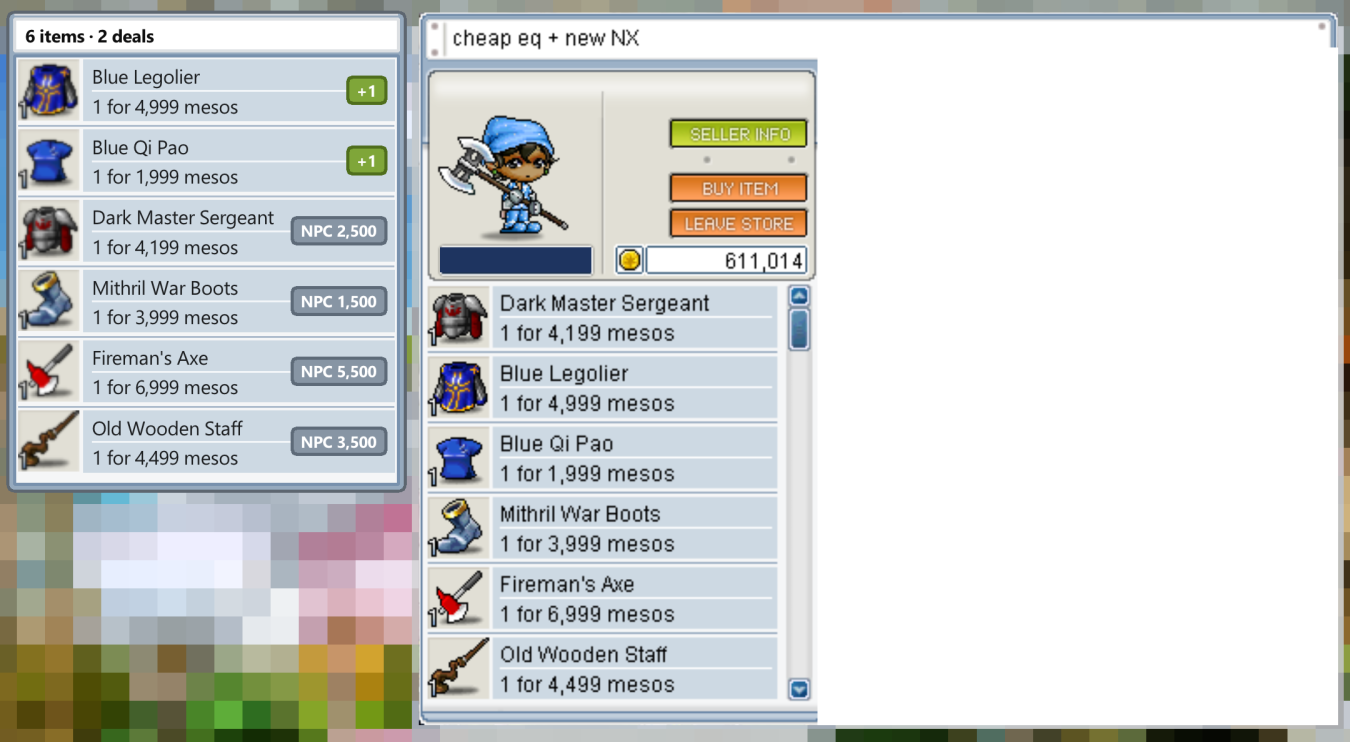
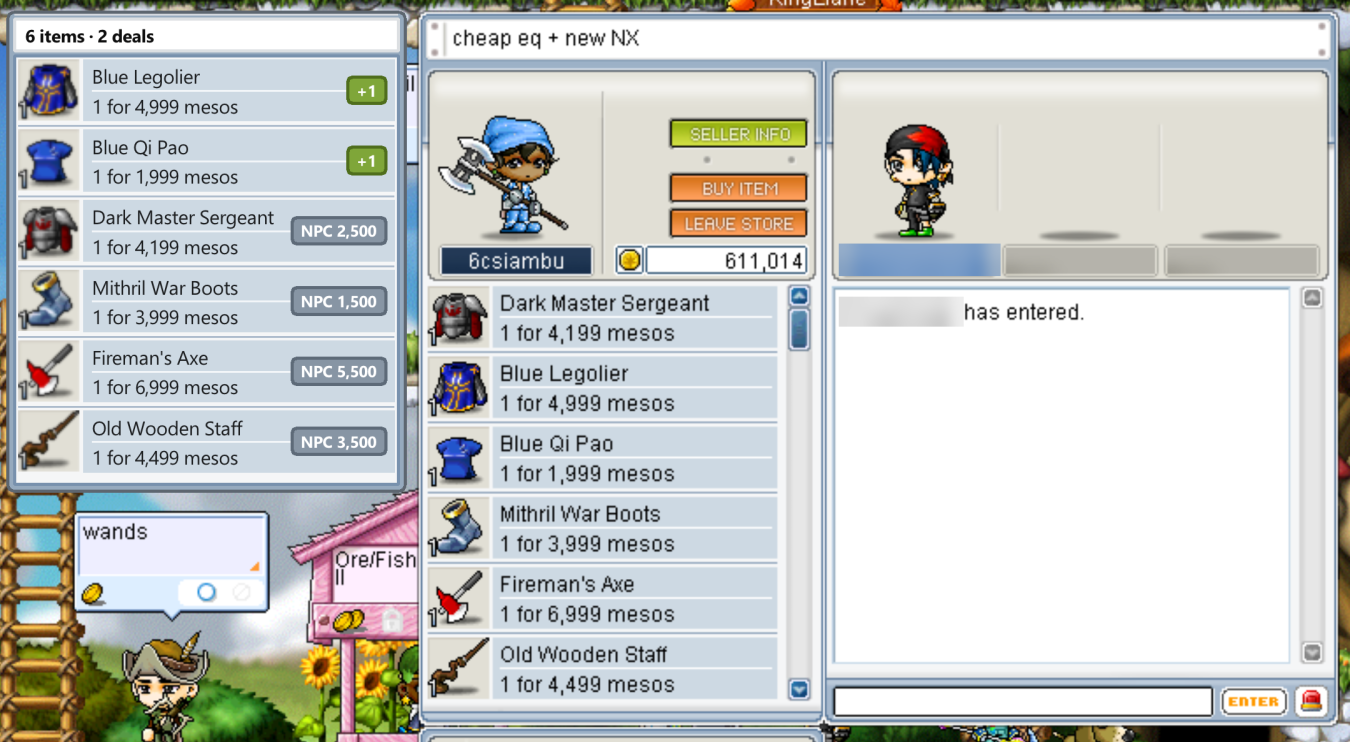
Test screenshots: blur only the author's character name
Replace the pixelated/blanked fixtures with the original captures where only
the author's own character name is blurred (name tag, status bar, shop
visitor slot, shop chat). Other players' names and the background are left
as captured. Regenerate the README images from them.

Changed region(s): [[0.0, 0.0, 1.0, 1.0], [0.3422, 0.341, 0.4356, 0.372], [0.28, 0.5889, 0.3111, 0.6199]]

diff --git a/README.md b/README.md
@@ -23,8 +23,8 @@ The app is called **MapleTool** (`MapleTool.exe`).
 
 ![EXP / meso tracker on the status bar](docs/images/exp-tracker.png)
 
-*(The screenshots come from the test images, where other players and the
-background are pixelated for privacy.)*
+*(The screenshots come from the test images, where the author's character name
+is blurred.)*
 
 ---
 
@@ -311,7 +311,7 @@ python -m mapletool.calibrate build tests/fixtures/shops --out mapletool/assets/
 `--preview sheet.png` to see every size.
 
 Contributions are welcome. New labelled screenshots of shops are especially
-useful; please pixelate other players' names first.
+useful; blur your own character name first if you want to stay anonymous.
 
 ---
 
